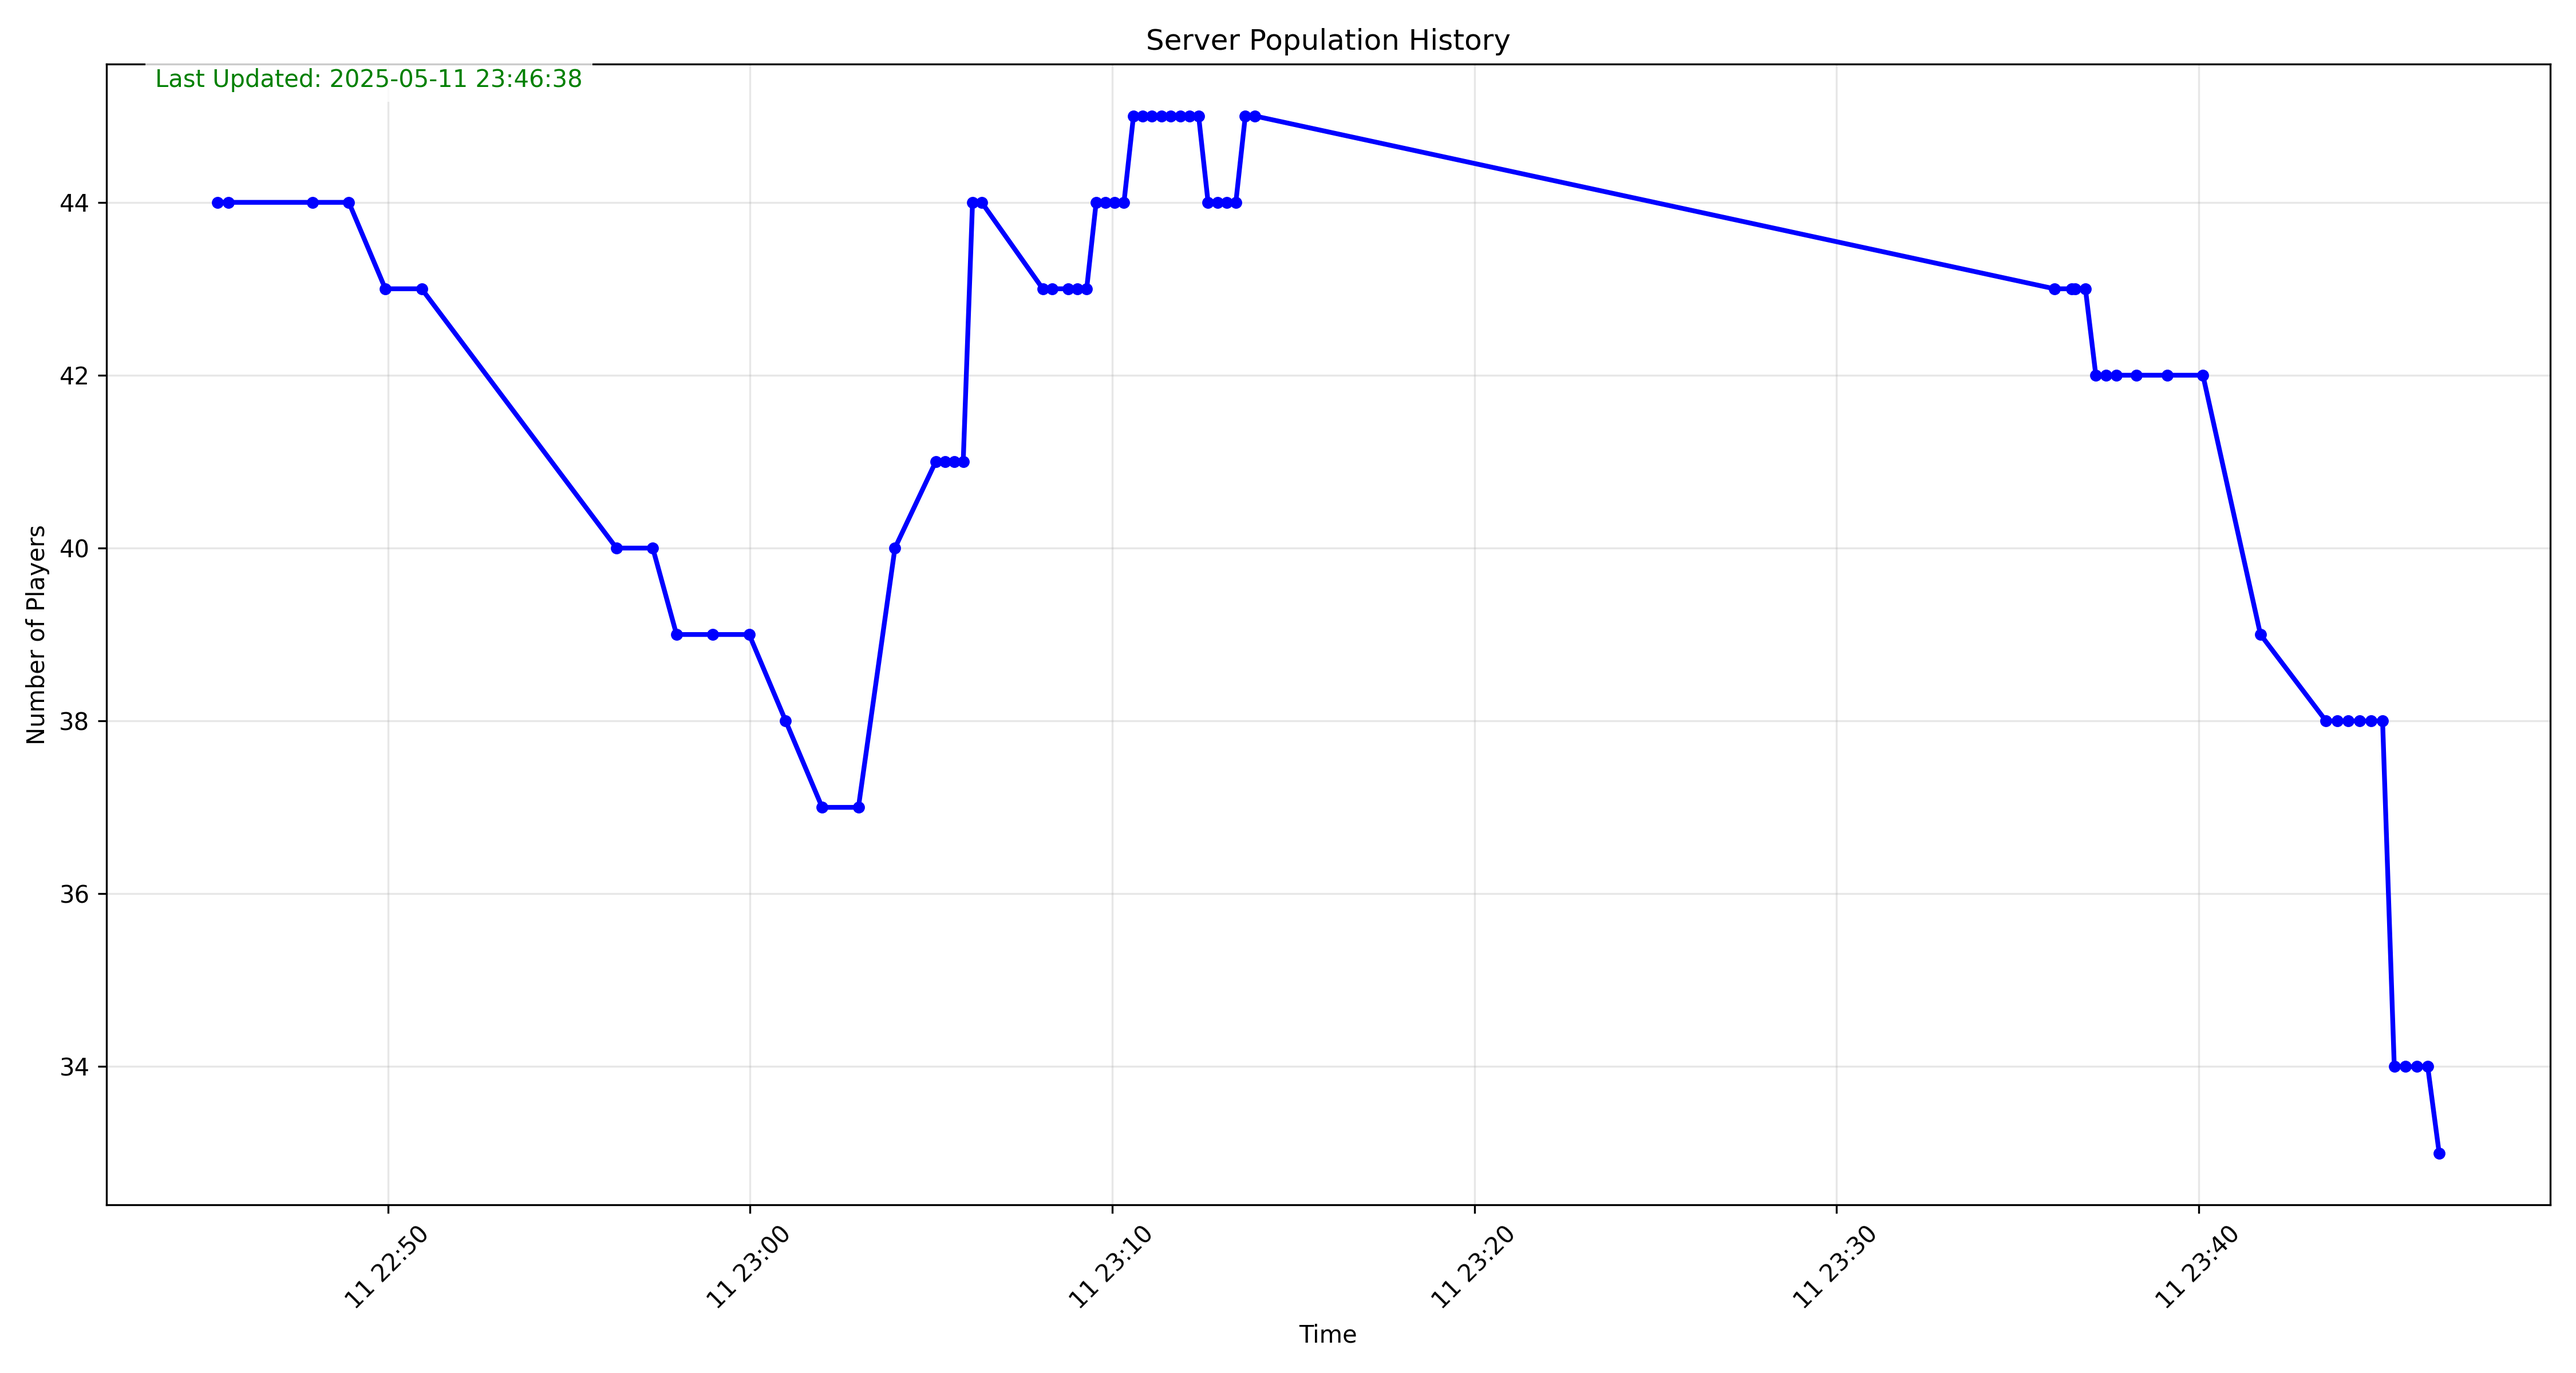
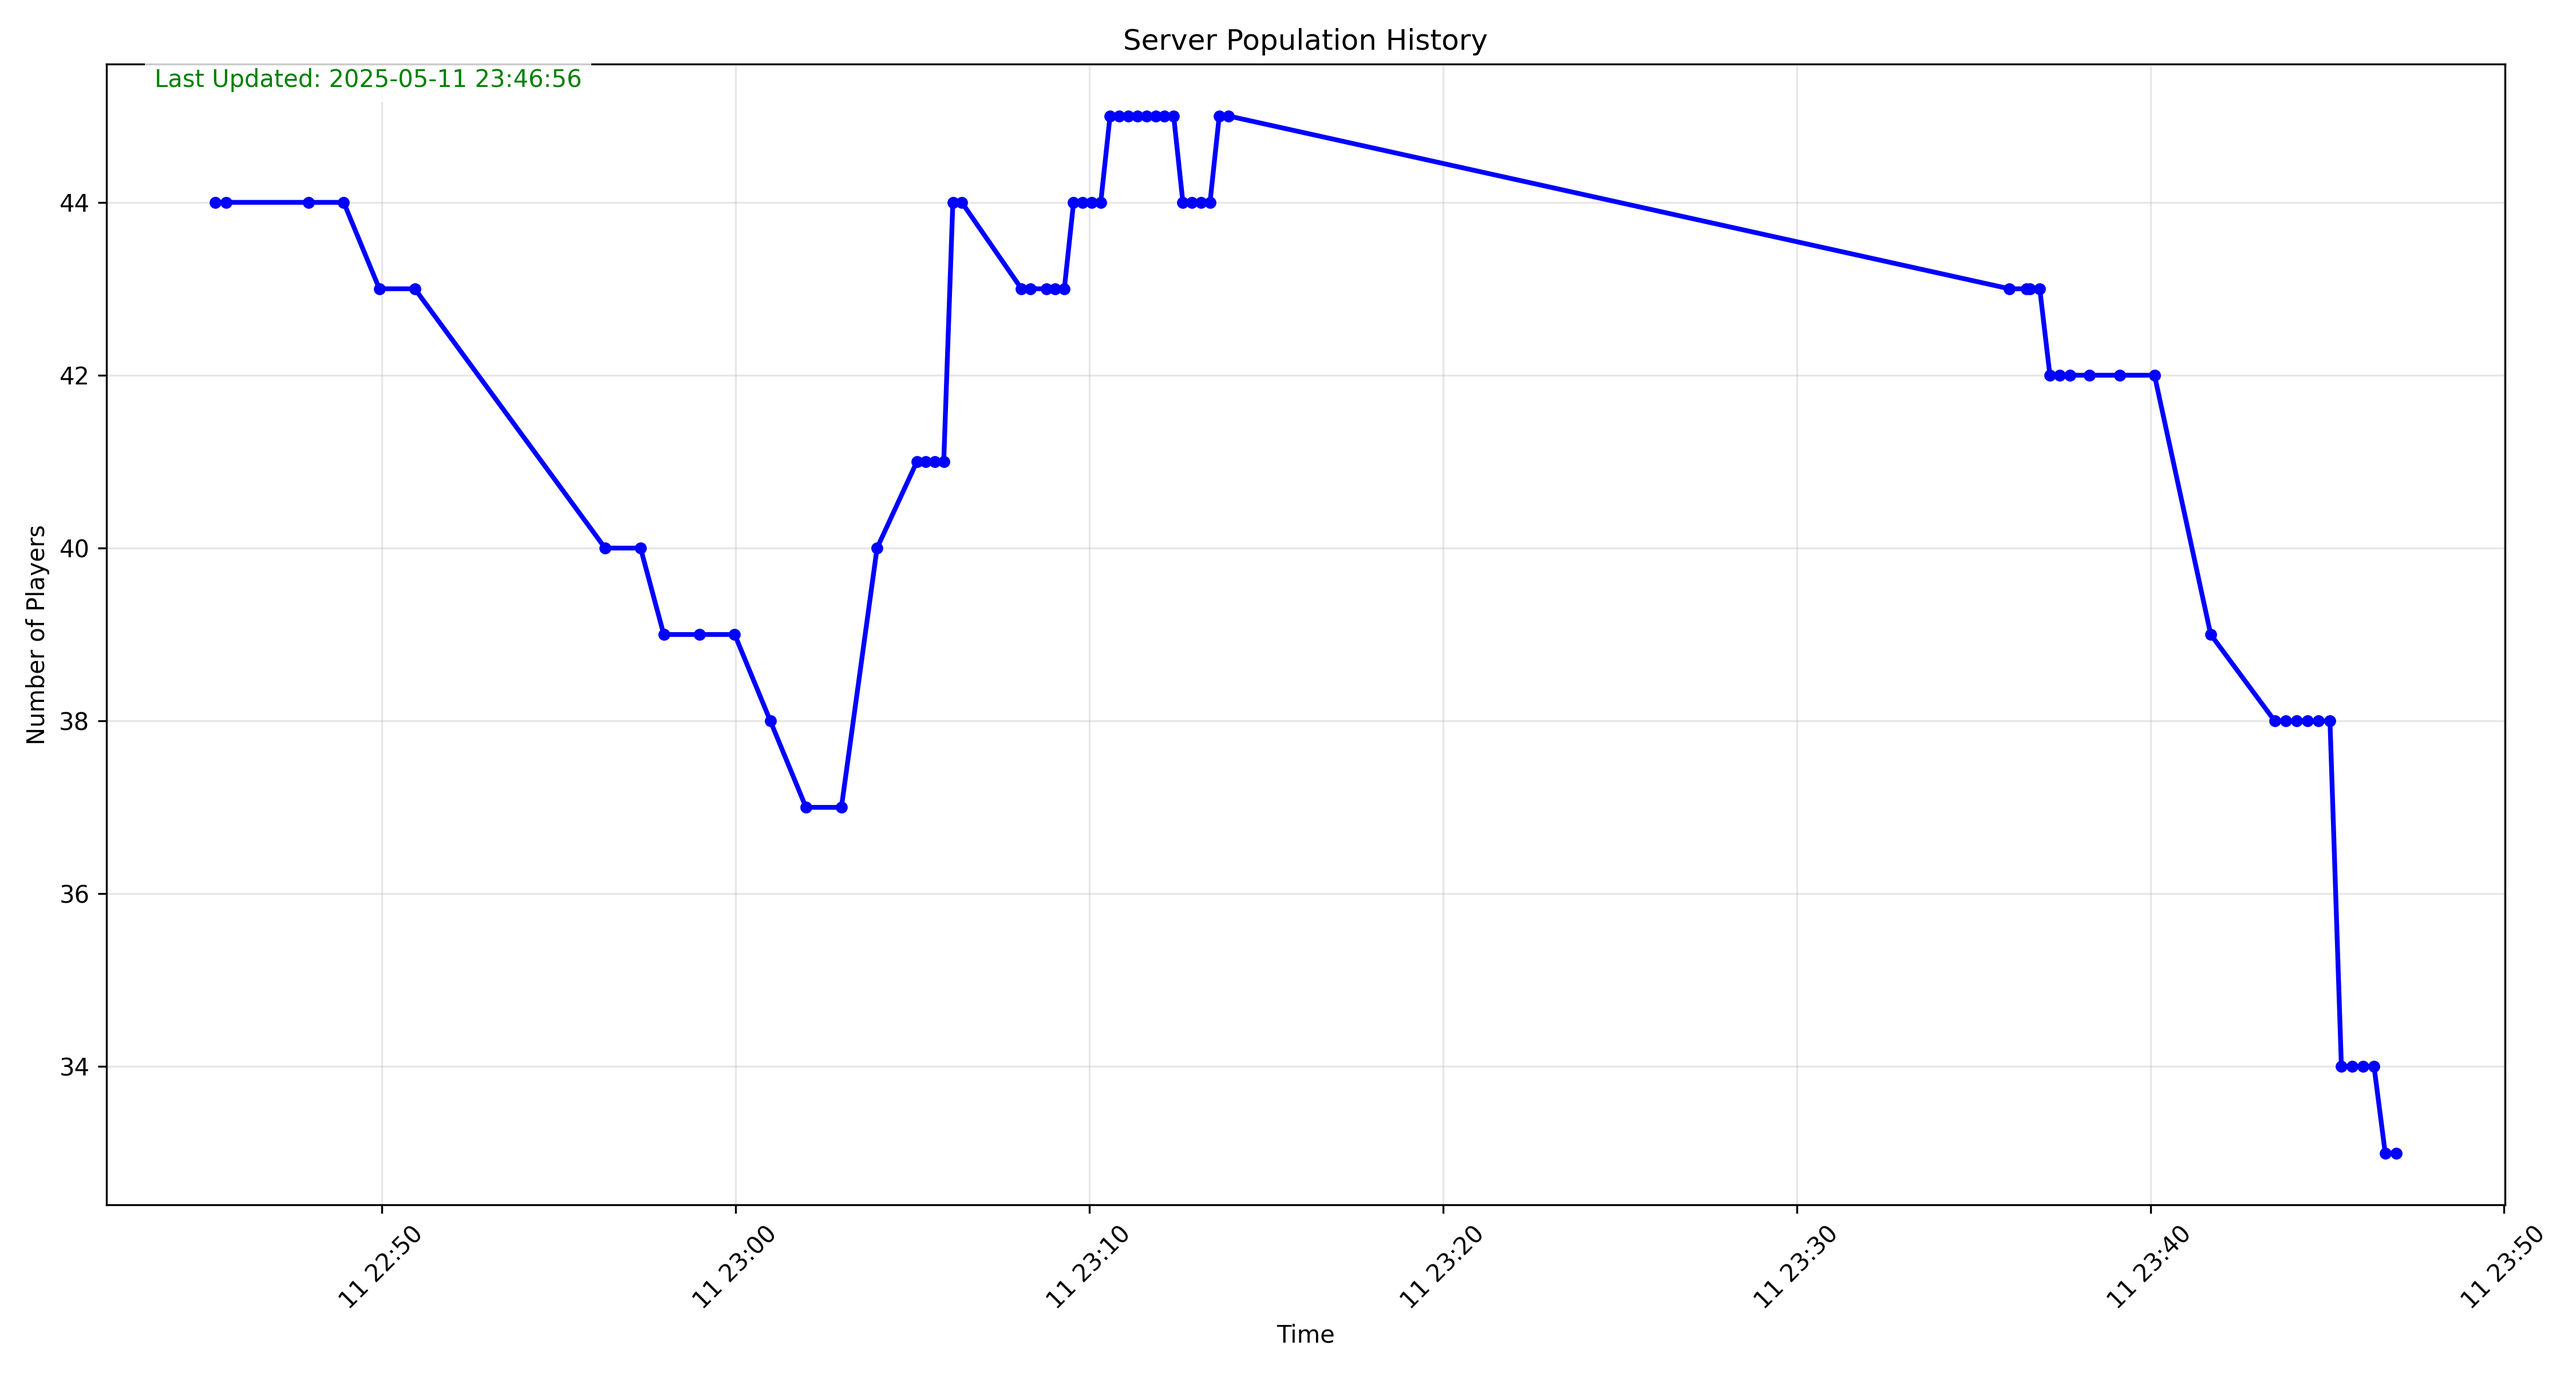
Update graph 2025-05-11 23:46:58

diff --git a/index.html b/index.html
@@ -9,7 +9,7 @@
             </style>
         </head>
         <body>
-            <div class="update-time">Last Updated: 2025-05-11 23:46:39</div>
+            <div class="update-time">Last Updated: 2025-05-11 23:46:58</div>
             <img src="server_population.png" alt="Server Population Graph">
         </body>
         </html>
